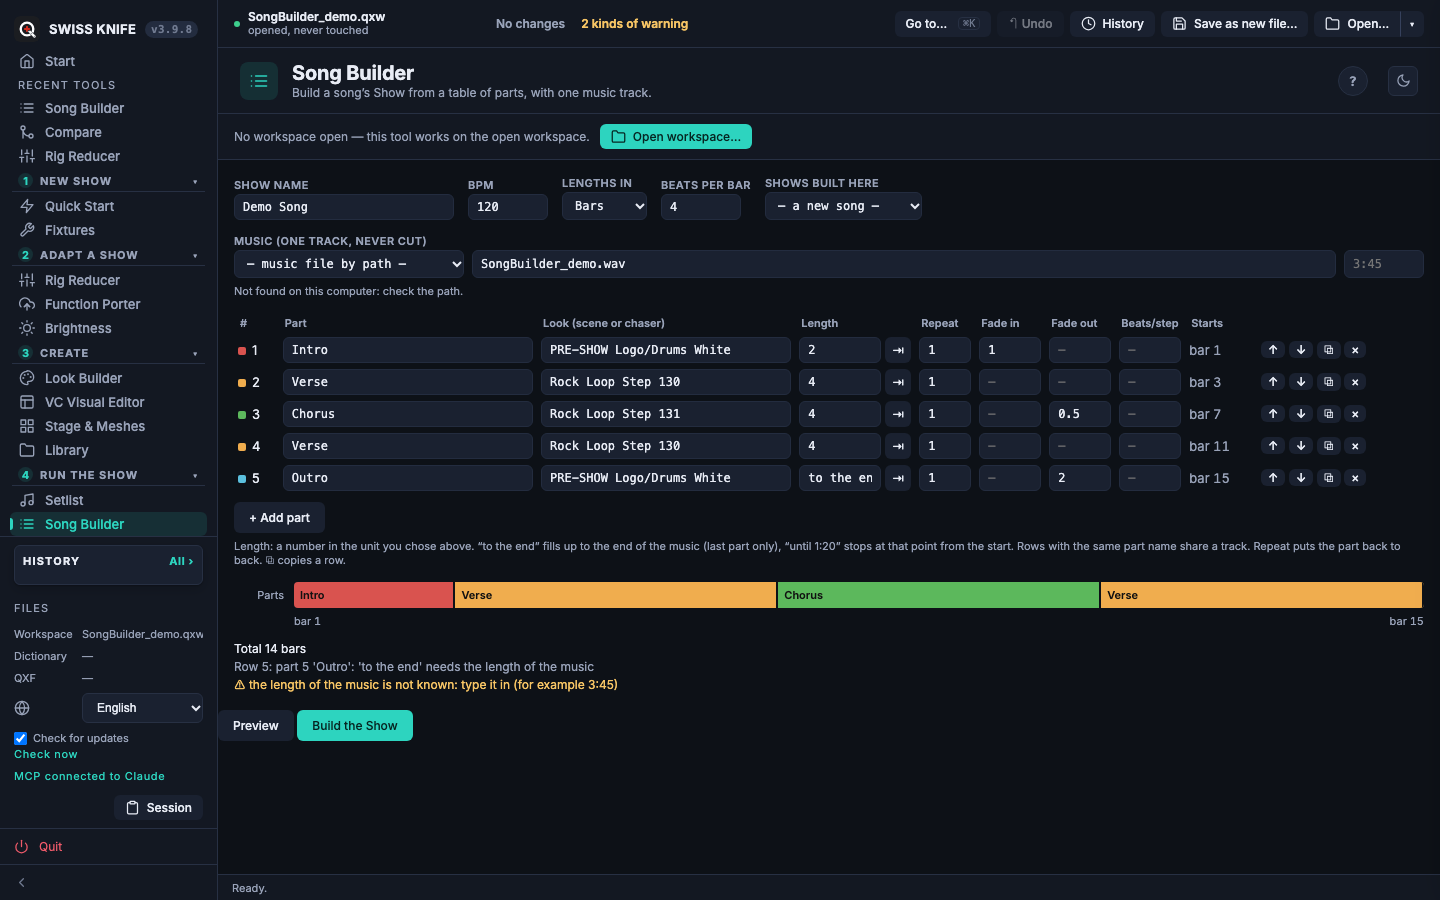
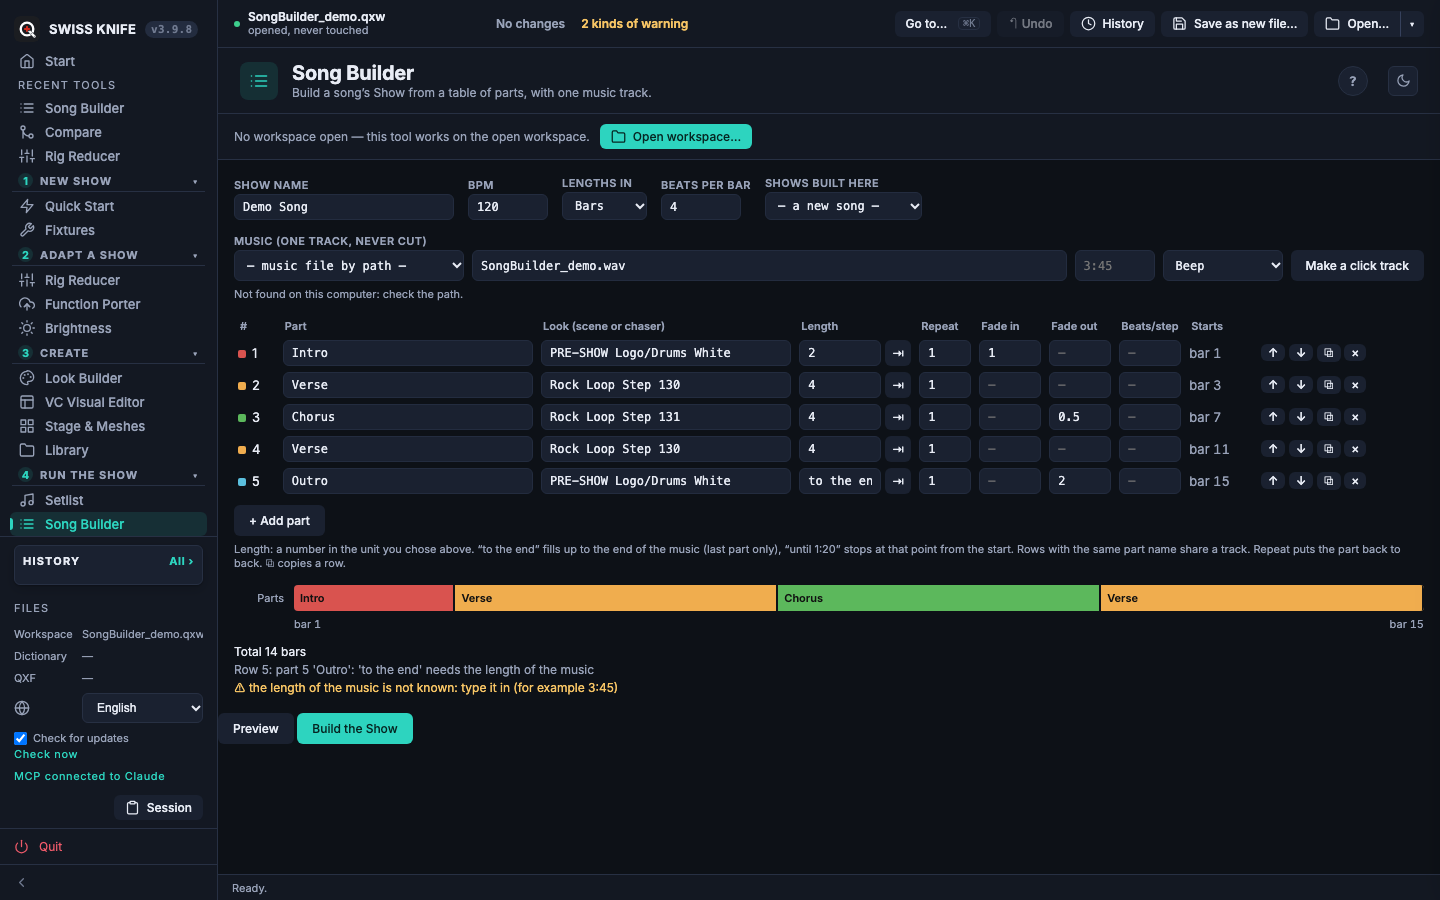
fix: resize bounds with a duplicated ID, grid box in the toolbar, upgrade note stays, clearer duplicate-ID message
From giopas's hand test on 23 October: a page and a widget that share an ID made the page's
size come from the widget; the toolbar's two numbers are mask limits, not the grid.

Claude-Session: https://claude.ai/code/session_01VfTy5Vhs18VnTXPcKAJYD3

diff --git a/templates/index.html b/templates/index.html
@@ -1546,8 +1546,18 @@
         <button class="vce-xb"    id="vce-btn-mask"   onclick="vceSetMode('mask')">Mask</button>
         <div class="vce-sep"></div>
 
+        <!-- Grid step (the same number as Snap to grid in the panel) -->
+        <span style="font-size:11px;color:var(--text-muted)">Grid</span>
+        <input id="vce-grid-top" type="number" min="1" max="50" value="5" aria-label="Grid step in pixels"
+               title="The grid step in pixels. Resizing and moving snap to it; a larger step is coarser."
+               style="width:36px;font-size:11px;padding:2px 4px;background:var(--surface-0);
+                      border:0.5px solid var(--border);border-radius:4px;color:var(--text-primary);font-family:var(--font-mono)"
+               oninput="vceGridFromToolbar(this.value)">
+        <span style="font-size:11px;color:var(--text-muted)">px</span>
+        <div class="vce-sep"></div>
+
         <!-- Mask thresholds -->
-        <span style="font-size:11px;color:var(--text-muted)">±</span>
+        <span style="font-size:11px;color:var(--text-muted)" title="Mask view: the alignment limits, in pixels">Mask ±</span>
         <input id="vce-thresh0" type="number" min="1" max="20" value="2" title="Minor threshold (px)"
                style="width:36px;font-size:11px;padding:2px 4px;background:var(--surface-0);
                       border:0.5px solid var(--border);border-radius:4px;color:var(--text-primary);font-family:var(--font-mono)"
@@ -1656,7 +1666,7 @@
 
               <div class="vce-sec">Snap to grid</div>
               <div class="vce-row">
-                <input id="vce-snap-grid" type="number" min="1" max="50" value="5" class="vce-pi vce-n" aria-label="Grid step in pixels" title="The grid step. Dragging a handle to resize a widget always snaps to it: a larger step is coarser, a smaller one is finer.">
+                <input id="vce-snap-grid" type="number" min="1" max="50" value="5" class="vce-pi vce-n" oninput="vceGridFromPanel(this.value)" aria-label="Grid step in pixels" title="The grid step. Dragging a handle to resize a widget always snaps to it: a larger step is coarser, a smaller one is finer.">
                 <span class="vce-lb">px</span>
                 <button class="vce-ab" onclick="vceSnapToGrid()">⊞ Snap selection</button>
                 <label class="vce-lb" title="Drag a selected widget to move it; positions snap to this grid. Resizing by its handles always snaps."><input type="checkbox" id="vce-snap-drag" checked> while moving</label>

diff --git a/static/js/vc_editor.js b/static/js/vc_editor.js
@@ -134,16 +134,18 @@ function _vceSelectPage(idx) {
 }
 
 // Build flat id→node map with absolute canvas coords
-function _vceFlattenNode(node, parentId, absX, absY) {
+function _vceFlattenNode(node, parentId, absX, absY, parentSize) {
   const nx = absX + (node.x || 0);
   const ny = absY + (node.y || 0);
   const pending = _vceChanges[node.id] || {};
   _vceNodes[node.id] = Object.assign({}, node, pending, {
     _absX: nx, _absY: ny,
     _parentId: parentId,
+    _pw: parentSize ? parentSize.w : null, _ph: parentSize ? parentSize.h : null,   // the frame's size, from the tree itself
     _alignQ: 0,
   });
-  (node.children || []).forEach(c => _vceFlattenNode(c, node.id, nx, ny));
+  const mine = { w: pending.w ?? node.w, h: pending.h ?? node.h };
+  (node.children || []).forEach(c => _vceFlattenNode(c, node.id, nx, ny, mine));
 }
 
 // Re-flatten after edits (preserves _alignQ computed separately)
@@ -538,6 +540,10 @@ function _vceHitTest(ax, ay) {
   return null;
 }
 
+/** The toolbar's grid box and the panel's Snap to grid box are one number. */
+function vceGridFromToolbar(v) { const p = document.getElementById('vce-snap-grid'); if (p) p.value = v; }
+function vceGridFromPanel(v) { const p = document.getElementById('vce-grid-top'); if (p) p.value = v; }
+
 /** The grid step (px) of the editor's "Snap to grid" box; resizing always snaps to it. */
 function _vceGridStep() {
   const g = parseInt(document.getElementById('vce-snap-grid')?.value);
@@ -616,9 +622,9 @@ function _vceOnMouseDown(e) {
   // Press on a handle of the one selected widget → drag to resize, always snapped to the grid.
   const hh = _vceHandleHit(ax, ay);
   if (hh) {
-    const n = hh.n, par = n._parentId && _vceNodes[n._parentId];
+    const n = hh.n;
     _vceResize = { h: hh.h, id: n.id, orig: { x: n.x, y: n.y, w: n.w, h: n.h }, ax, ay, sx: e.clientX, sy: e.clientY,
-                   grid: _vceGridStep(), bounds: par ? { w: par.w, h: par.h } : null, moved: false, before: _vceLocalSnapshot() };
+                   grid: _vceGridStep(), bounds: n._pw != null ? { w: n._pw, h: n._ph } : null, moved: false, before: _vceLocalSnapshot() };
     e.preventDefault();
     return;
   }

diff --git a/static/js/vc_builder.js b/static/js/vc_builder.js
@@ -357,9 +357,8 @@ function _vcbShowUpg() {
 document.addEventListener('click', e => {
   const b = e.target.closest && e.target.closest('[data-vcb-upg]');
   if (!b) return;
-  const go_ = b.dataset.vcbUpg === 'go';
+  if (b.dataset.vcbUpg === 'go') { if (typeof go === 'function') go('upgrade'); return; }   // the note stays until "Not now"
   _vcbUpg = null; _vcbShowUpg();
-  if (go_ && typeof go === 'function') go('upgrade');
 });
 
 async function vcbRenamePage() {

diff --git a/tests/test_vc_resize_3100.py b/tests/test_vc_resize_3100.py
@@ -107,3 +107,18 @@ def test_the_editor_uses_it_and_pushes_one_history_step_per_drag():
     assert "vceResizeRect(" in move and "_vceChanges" in move
     assert "Math.min(g, 50)" in src                                              # the grid step is the box's, 1 to 50
     assert not re.search(r"_vceResize\s*=\s*\{[^}]*grid:\s*snap", src)           # resizing does not depend on the move checkbox
+
+
+# ── after giopas's hand test (23 Oct): a duplicated ID must not change how far a widget may grow ──
+
+def test_the_frame_size_comes_from_the_tree_not_from_an_id_map():
+    """A page and a widget that share ID 0 made the page's size read from the widget (so a widget could
+    not grow to the right). The bounds are the parent's size taken while the tree is flattened."""
+    src = open(os.path.join(os.path.dirname(__file__), "..", "static", "js", "vc_editor.js"), encoding="utf-8").read()
+    assert "_pw: parentSize" in src and "bounds: n._pw != null" in src
+    assert "_vceNodes[n._parentId]" not in src.split("function _vceOnMouseDown")[1].split("function _vceOnMouseUp")[0]
+
+
+def test_one_grid_number_in_toolbar_and_panel():
+    html = open(os.path.join(os.path.dirname(__file__), "..", "templates", "index.html"), encoding="utf-8").read()
+    assert 'id="vce-grid-top"' in html and 'id="vce-snap-grid"' in html and "Mask ±" in html

diff --git a/tests/test_vc_ops.py b/tests/test_vc_ops.py
@@ -200,3 +200,15 @@ def test_undo_route():
     import app
     c = app.create_app().test_client()
     assert c.post("/api/vc/undo").status_code == 400      # no workspace
+
+
+def test_duplicate_id_message_names_the_widgets_and_the_button():
+    from core import vc_builder
+    root = vc_builder.ET.fromstring(
+        '<Workspace><VirtualConsole><Frame Caption="Page" ID="0"><WindowState X="0" Y="0" Width="900" Height="600"/>'
+        '<Button Caption="Ice Arena" ID="0"><WindowState X="0" Y="0" Width="50" Height="30"/></Button></Frame>'
+        '</VirtualConsole></Workspace>')
+    with pytest.raises(vc_ops.VcOpError) as e:
+        vc_builder.create_widget(root, "0", "Knob")
+    m = str(e.value)
+    assert "“Page”" in m and "“Ice Arena”" in m and "orange note" in m and "Fix duplicate IDs" in m

diff --git a/core/vc_ops.py b/core/vc_ops.py
@@ -95,9 +95,11 @@ def _get(by_id, wid: str, what: str = "widget") -> ET.Element:
     if not els:
         raise VcOpError(f"{what.capitalize()} ID {wid} not found.")
     if len(els) > 1:
+        names = " + ".join("\u201c%s\u201d" % (e.get("Caption", "") or _local(e.tag)) for e in els[:4])
         raise VcOpError(
-            f"{what.capitalize()} ID {wid} is used by {len(els)} widgets, so it cannot be "
-            f"moved or copied safely. Click 'Fix duplicate IDs' in the Pages section first.")
+            f"{what.capitalize()} ID {wid} is used by {len(els)} widgets ({names}), so it cannot be "
+            f"moved or copied safely. Click 'Fix duplicate IDs' (the orange note at the top of the "
+            f"right panel, or in Pages) first, then try again.")
     return els[0]
 
 

diff --git a/tests/test_i18n_3100.py b/tests/test_i18n_3100.py
@@ -33,6 +33,10 @@ KEYS = [
     "This show was saved by QLC+ {0}. The new widgets were checked against QLC+ 5.3 only: the Upgrade to QLC+ 5.3 screen shows what it would add, and writes nothing until you click.",
     "Review the upgrade",
     "Not now",
+    "{0} ID {1} is used by {2} widgets ({3}), so it cannot be moved or copied safely. Click 'Fix duplicate IDs' (the orange note at the top of the right panel, or in Pages) first, then try again.",
+    "Mask ±",
+    "The grid step in pixels. Resizing and moving snap to it; a larger step is coarser.",
+    "Mask view: the alignment limits, in pixels",
 ]
 
 

diff --git a/CHANGELOG.md b/CHANGELOG.md
@@ -20,6 +20,7 @@ This project follows [Keep a Changelog](https://keepachangelog.com/en/1.0.0/) co
 
 ### Fixed
 
+- **VC Editor, after the first hand test.** A widget could not be resized to the right or downwards when its page and another widget shared an ID (the page's size was read from the wrong one); the frame's size now comes from the tree. The grid step has its own **Grid** box in the toolbar (the mask limits are labelled *Mask ±*). The note offering the upgrade to 5.3 stays after *Review the upgrade* (only *Not now* hides it). The message about a duplicated ID names the widgets and says where the *Fix duplicate IDs* button is.
 - The wiki's Setlist page still described *Split Show…*, which was dropped in 3.9.8.
 
 ---
